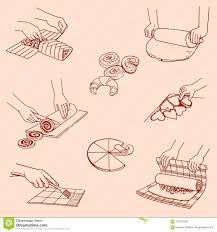
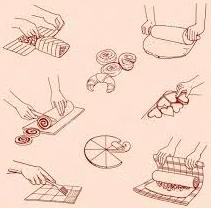
animacion portada

diff --git a/css/estilo.css b/css/estilo.css
@@ -103,88 +103,95 @@ h3{
     }
 
 .portada{
-        width: 200px;
-        height: 200px;
-        /*animation-name: animacion_portada;
-        animation-duration: 4s;
-        position: relative; 
-        animation-delay: 0s;*/
-        background-color: blue;
+        width: 540px;
+        height: 400px;
+        background-color: rgb(194, 120, 157); 
+        background-image: url(../img/fondo2.jpg);
         margin-left:auto;
         margin-right:auto;
+        
     }
     .portada1{
-        width: 100px;
-        height: 100px;
+        width: 270px;
+        height: 190px;
         animation-name: animacion_portada;
         animation-duration: 4s;
         position: relative;
         animation-delay: 0s;
         margin:0px;
         top: 0px;
-        background-color: rgb(255, 0, 21);
+        background-image: url("../img/portada_1.gif");
+        background-repeat:no-repeat;
+        
     }   
     .portada2{
-        width: 100px;
-        height: 100px;
+        width: 270px;
+        height: 190px;
         animation-name: animacion_portada2;
         animation-duration: 4s;
         position: relative;
         animation-delay: 0s;
-        margin-left:100px;
-        top: -100px;
-        background-color: rgb(43, 255, 0);
+        margin-left:270px;
+        top: -190px;
+        background-image: url("../img/portada_2.gif");
+        background-repeat:no-repeat;
     }   
     
     .portada3{
-        width: 100px;
-        height: 100px;
+        width: 270px;
+        height: 190px;
         animation-name: animacion_portada3;
         animation-duration: 4s;
         position: relative;
         animation-delay: 0s;
-        margin-left:100px;
-        top: -100px;
-        background-color: rgb(57, 109, 93);
+        margin-left:270px;
+        top: -170px;
+        /* background-color: rgb(57, 109, 93); */
+        background-image: url("../img/portada_3.gif");
+        background-repeat:no-repeat;
     }   
     
     .portada4{
-        width: 100px;
-        height: 100px;
-        animation-name: animacion_portada4;
+        width: 270px;
+        height: 190px;
+        animation-name: animacion_portada4; 
         animation-duration: 4s;
         position: relative;
         animation-delay: 0s;
         margin-left:0px;
-        top: -200px;
-        background-color: rgb(126, 144, 177);
+        top: -360px;
+        /* background-color: rgb(126, 144, 177);*/
+        background-image: url("../img/portada_4.gif");
+        background-repeat:no-repeat;
     } 
     .portada5{
-        width: 100px;
-        height: 100px;
+        width: 368px;
+        height: 190px;
         animation-duration: 4s;
         position: relative;
         animation-delay: 0s;
         margin:auto;
-        top: -350px;
-        background-color: rgb(124, 114, 114);
+        top: -645px;
+        background-color: rgb(255, 255, 255);
+        background-image: url("../img/titulo.gif");
+        background-repeat:no-repeat;
     } 
 /* Para animacion portada */
 @keyframes animacion_portada {
-    0%   {right: -50px; top:50px}
+    0%   {right: -135px; top:155px}
     100% {right:0px; top: 0px;}
 }
 @keyframes animacion_portada2 {
-    0%   {margin-left: 50px; top:-50px}
-    100% {margin-left:100px; top: -100px;}
+    0%   {margin-left: 135px; top:-95px}
+    100% {margin-left:270px; top: -190px;}
 }
 @keyframes animacion_portada3 {
-    0%   {margin-left: 50px; top:-150px}
-    100% {margin-left:100px; top: -100px;}
+    0%   {margin-left: 135px; top:-265px}
+    100% {margin-left:270px; top: -170px;}
 }
 @keyframes animacion_portada4 {
-    0%   {right: -50px; top:-250px}
-    100% {right:0px; top: -200px;}
+    0%   {right: -135px; top:-435px}
+    100% {right:0px; top: -360px;}
 }
 
 
